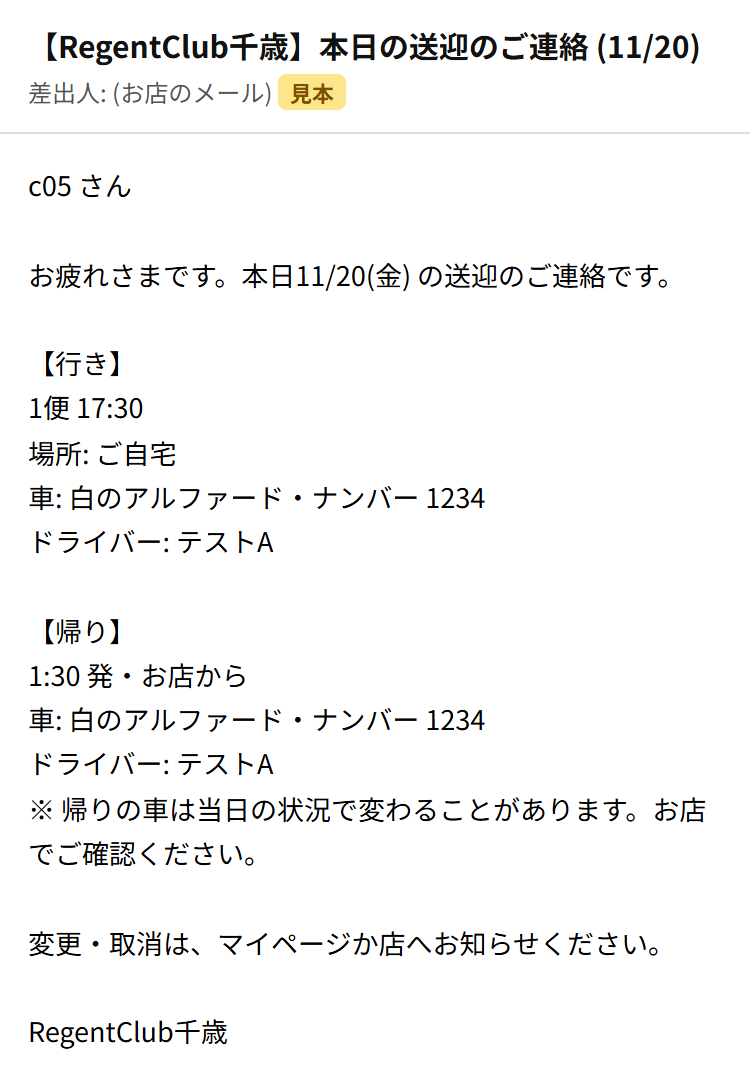
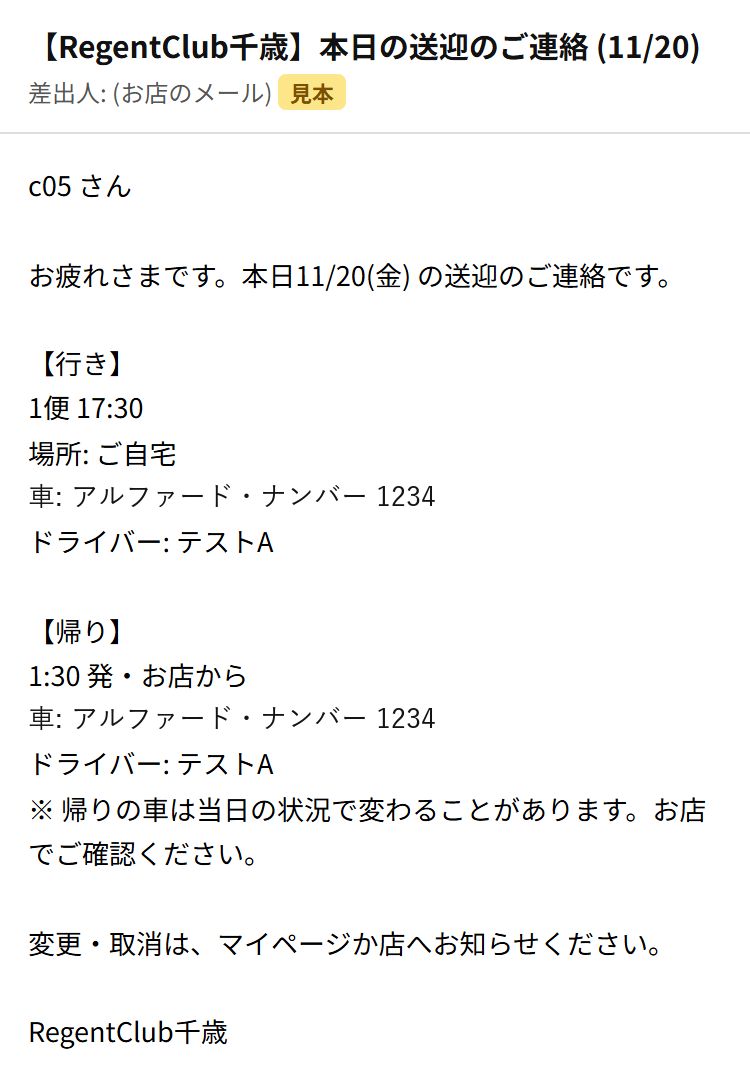
docs: 黒服向け明細を実際の流れ(○で週払い・PDFは準備中)に合わせ図を追加・古い美容室案内と車の色を削除

diff --git a/guide/staff.html b/guide/staff.html
@@ -94,13 +94,13 @@ footer{text-align:center;font-size:12px;color:#777;padding:0 16px 36px}
 <li>本人の マイページが 開きます。ここで <b>シフト・送迎・美容室</b>を 入れます。</li></ol>
 <p class="note">面接アプリから 入った人には、入店メールで マイページの URL が 届きます。</p></div></details><details class="card"><summary><span class="no">5</span>シフト・送迎・美容室・同伴</summary><div class="in"><table><tr><th>だれ</th><th>何を</th><th>どこで</th></tr>
 <tr><td>女の子</td><td>出勤の 日と 時間、送迎 (行き・帰り)、美容室の 予約</td><td>マイページ</td></tr>
-<tr><td>美容師</td><td>出る日 (シフト入力)、来店の 記録 (対応した ／ 来なかった ／ キャンセル)</td><td>美容室の ページ</td></tr>
-<tr><td>ドライバー</td><td>出られる日 (朝=行き ／ 帰)</td><td>送迎 シフト入力</td></tr></table>
-<p class="note">同伴・来店予定の日は、美容室の 予約で <b>優先</b>に なります。入った データは 出勤表の 日別タブに 出ます。</p></div></details><details class="card"><summary><span class="no">6</span>美容室の 給料引きと 明細</summary><div class="in"><ol class="st">
+<tr><td>美容師</td><td>出る日 (週間シフト)、来た子に「ヘアメイク」・来なかった子に「キャンセル」</td><td>美容室の ページ</td></tr>
+<tr><td>ドライバー</td><td>出られる日 (朝=行き ／ 帰)、乗せた子に「乗せた」・乗らなかった子に「キャンセル」</td><td>送迎の ページ</td></tr></table>
+<p class="note">同伴の 日は、美容室で <b>優先</b>に なります。入った データは 出勤表の 日別タブに 出ます。</p></div></details><details class="card"><summary><span class="no">6</span>美容室の 給料引きと 明細</summary><div class="in"><ol class="st">
 <li>シートの「<b>美容室 給料引き(日別)</b>」タブを 見ます。</li>
-<li>日付・店・キャスト・金額 が 出ます。給料から 引くのは <b>有料で 対応した</b> 分だけ です。</li>
+<li>日付・店・キャスト・金額 が 出ます。給料から 引くのは <b>有料</b>で「ヘアメイク」に なった 分だけ です。</li>
 <li>引いたら「<b>引いた</b>」に チェックを 入れます。</li></ol>
-<p class="note">美容師さんの 明細 (PDF) は、毎朝 6 時台 (前の日分)・月曜 6 時台 (先週分) に、ドライブの「美容室 明細」に 自動で できます。メールは 送られません。中村本部長へ 自動で 届く 設定は <span class="chip wip">準備中</span> です。</p></div></details><h2 id="biz">3　営業中に 開く 出勤表</h2><p>営業中は、<b>出勤表スプレッドシートの 日別タブ</b> (その日の タブ) を 開きます。<br>入口は 黒服ポータルの「<b>シフト表</b>」ボタンです。</p><div class="dia"><svg viewBox="0 0 360 420" role="img" aria-label="営業中に開く出勤表とExcelのつながり"><defs><marker id="ar" viewBox="0 0 10 10" refX="8" refY="5" markerWidth="6" markerHeight="6" orient="auto"><path d="M0,0 L10,5 L0,10 z" fill="#1F2A44"/></marker></defs><rect x="10" y="8" width="168" height="62" rx="9" fill="#1F2A44" stroke="#1F2A44" stroke-width="2"/><text x="94.0" y="35.0" text-anchor="middle" font-size="13.5" fill="#fff" font-family="Noto Sans JP,sans-serif" font-weight="700">Prince スプレッドシート</text><text x="94.0" y="53.0" text-anchor="middle" font-size="11" font-weight="500" fill="#fff">シフト入力・在籍・体入・送迎</text><line x1="94" y1="70" x2="94" y2="112" stroke="#1F2A44" stroke-width="2.4" marker-end="url(#ar)"/><text x="102" y="96" font-size="11.5" fill="#1F2A44" text-anchor="start" font-family="Noto Sans JP,sans-serif" font-weight="700">10 分ごと 自動</text><rect x="10" y="114" width="168" height="62" rx="9" fill="#fff" stroke="#1F2A44" stroke-width="2.2"/><text x="94.0" y="141.0" text-anchor="middle" font-size="13.5" fill="#1F2A44" font-family="Noto Sans JP,sans-serif" font-weight="700">出勤表 スプレッドシート</text><text x="94.0" y="159.0" text-anchor="middle" font-size="11" font-weight="500" fill="#1F2A44">日別タブ (4 店)</text><line x1="94" y1="176" x2="94" y2="218" stroke="#1F2A44" stroke-width="2.4" marker-end="url(#ar)"/><rect x="10" y="220" width="168" height="62" rx="9" fill="#fff" stroke="#1F2A44" stroke-width="2.2"/><text x="94.0" y="247.0" text-anchor="middle" font-size="13.5" fill="#1F2A44" font-family="Noto Sans JP,sans-serif" font-weight="700">営業中に 開く 日別タブ</text><text x="94.0" y="265.0" text-anchor="middle" font-size="11" font-weight="500" fill="#1F2A44">① → ④ リンク・Q 列</text><rect x="10" y="330" width="168" height="62" rx="9" fill="#fff" stroke="#1F2A44" stroke-width="2.2"/><text x="94.0" y="357.0" text-anchor="middle" font-size="13.5" fill="#1F2A44" font-family="Noto Sans JP,sans-serif" font-weight="700">＋ 追加出勤 (手入力)</text><text x="94.0" y="375.0" text-anchor="middle" font-size="11" font-weight="500" fill="#1F2A44">表の下に 入れる</text><line x1="94" y1="330" x2="94" y2="284" stroke="#1F2A44" stroke-width="2.4" marker-end="url(#ar)"/><rect x="192" y="114" width="158" height="62" rx="9" fill="#fff" stroke="#1F2A44" stroke-width="2.2" stroke-dasharray="6 4"/><text x="271.0" y="141.0" text-anchor="middle" font-size="13.5" fill="#1F2A44" font-family="Noto Sans JP,sans-serif" font-weight="700">Excel の 出勤</text><text x="271.0" y="159.0" text-anchor="middle" font-size="11" font-weight="500" fill="#1F2A44">自動で 拾う (確認中)</text><line x1="192" y1="145" x2="180" y2="145" stroke="#1F2A44" stroke-width="2.4" stroke-dasharray="6 4" marker-end="url(#ar)"/><rect x="192" y="220" width="158" height="62" rx="9" fill="#fff" stroke="#1F2A44" stroke-width="2.2" stroke-dasharray="6 4"/><text x="271.0" y="247.0" text-anchor="middle" font-size="13.5" fill="#1F2A44" font-family="Noto Sans JP,sans-serif" font-weight="700">指名・売上の 入力</text><text x="271.0" y="265.0" text-anchor="middle" font-size="11" font-weight="500" fill="#1F2A44">営業中に 入力 (作業中)</text><line x1="271" y1="282" x2="271" y2="330" stroke="#1F2A44" stroke-width="2.4" stroke-dasharray="6 4" marker-end="url(#ar)"/><rect x="192" y="332" width="158" height="60" rx="9" fill="#fff" stroke="#1F2A44" stroke-width="2.2" stroke-dasharray="6 4"/><text x="271.0" y="358.0" text-anchor="middle" font-size="13.5" fill="#1F2A44" font-family="Noto Sans JP,sans-serif" font-weight="700">Excel 売上指名表</text><text x="271.0" y="376.0" text-anchor="middle" font-size="11" font-weight="500" fill="#1F2A44">自動で 反映 (作業中)</text></svg></div><div class="card"><h4>日別タブの 見かた</h4><ul style="margin:6px 0;padding-left:1.3em">
+<p class="note">毎晩の 確認・撮影を 無料に する 方法・ドライバーの 週払いは <a href="meisai.html">黒服向け 明細の説明書</a> に まとめました。</p></div></details><h2 id="biz">3　営業中に 開く 出勤表</h2><p>営業中は、<b>出勤表スプレッドシートの 日別タブ</b> (その日の タブ) を 開きます。<br>入口は 黒服ポータルの「<b>シフト表</b>」ボタンです。</p><div class="dia"><svg viewBox="0 0 360 420" role="img" aria-label="営業中に開く出勤表とExcelのつながり"><defs><marker id="ar" viewBox="0 0 10 10" refX="8" refY="5" markerWidth="6" markerHeight="6" orient="auto"><path d="M0,0 L10,5 L0,10 z" fill="#1F2A44"/></marker></defs><rect x="10" y="8" width="168" height="62" rx="9" fill="#1F2A44" stroke="#1F2A44" stroke-width="2"/><text x="94.0" y="35.0" text-anchor="middle" font-size="13.5" fill="#fff" font-family="Noto Sans JP,sans-serif" font-weight="700">Prince スプレッドシート</text><text x="94.0" y="53.0" text-anchor="middle" font-size="11" font-weight="500" fill="#fff">シフト入力・在籍・体入・送迎</text><line x1="94" y1="70" x2="94" y2="112" stroke="#1F2A44" stroke-width="2.4" marker-end="url(#ar)"/><text x="102" y="96" font-size="11.5" fill="#1F2A44" text-anchor="start" font-family="Noto Sans JP,sans-serif" font-weight="700">10 分ごと 自動</text><rect x="10" y="114" width="168" height="62" rx="9" fill="#fff" stroke="#1F2A44" stroke-width="2.2"/><text x="94.0" y="141.0" text-anchor="middle" font-size="13.5" fill="#1F2A44" font-family="Noto Sans JP,sans-serif" font-weight="700">出勤表 スプレッドシート</text><text x="94.0" y="159.0" text-anchor="middle" font-size="11" font-weight="500" fill="#1F2A44">日別タブ (4 店)</text><line x1="94" y1="176" x2="94" y2="218" stroke="#1F2A44" stroke-width="2.4" marker-end="url(#ar)"/><rect x="10" y="220" width="168" height="62" rx="9" fill="#fff" stroke="#1F2A44" stroke-width="2.2"/><text x="94.0" y="247.0" text-anchor="middle" font-size="13.5" fill="#1F2A44" font-family="Noto Sans JP,sans-serif" font-weight="700">営業中に 開く 日別タブ</text><text x="94.0" y="265.0" text-anchor="middle" font-size="11" font-weight="500" fill="#1F2A44">① → ④ リンク・Q 列</text><rect x="10" y="330" width="168" height="62" rx="9" fill="#fff" stroke="#1F2A44" stroke-width="2.2"/><text x="94.0" y="357.0" text-anchor="middle" font-size="13.5" fill="#1F2A44" font-family="Noto Sans JP,sans-serif" font-weight="700">＋ 追加出勤 (手入力)</text><text x="94.0" y="375.0" text-anchor="middle" font-size="11" font-weight="500" fill="#1F2A44">表の下に 入れる</text><line x1="94" y1="330" x2="94" y2="284" stroke="#1F2A44" stroke-width="2.4" marker-end="url(#ar)"/><rect x="192" y="114" width="158" height="62" rx="9" fill="#fff" stroke="#1F2A44" stroke-width="2.2" stroke-dasharray="6 4"/><text x="271.0" y="141.0" text-anchor="middle" font-size="13.5" fill="#1F2A44" font-family="Noto Sans JP,sans-serif" font-weight="700">Excel の 出勤</text><text x="271.0" y="159.0" text-anchor="middle" font-size="11" font-weight="500" fill="#1F2A44">自動で 拾う (確認中)</text><line x1="192" y1="145" x2="180" y2="145" stroke="#1F2A44" stroke-width="2.4" stroke-dasharray="6 4" marker-end="url(#ar)"/><rect x="192" y="220" width="158" height="62" rx="9" fill="#fff" stroke="#1F2A44" stroke-width="2.2" stroke-dasharray="6 4"/><text x="271.0" y="247.0" text-anchor="middle" font-size="13.5" fill="#1F2A44" font-family="Noto Sans JP,sans-serif" font-weight="700">指名・売上の 入力</text><text x="271.0" y="265.0" text-anchor="middle" font-size="11" font-weight="500" fill="#1F2A44">営業中に 入力 (作業中)</text><line x1="271" y1="282" x2="271" y2="330" stroke="#1F2A44" stroke-width="2.4" stroke-dasharray="6 4" marker-end="url(#ar)"/><rect x="192" y="332" width="158" height="60" rx="9" fill="#fff" stroke="#1F2A44" stroke-width="2.2" stroke-dasharray="6 4"/><text x="271.0" y="358.0" text-anchor="middle" font-size="13.5" fill="#1F2A44" font-family="Noto Sans JP,sans-serif" font-weight="700">Excel 売上指名表</text><text x="271.0" y="376.0" text-anchor="middle" font-size="11" font-weight="500" fill="#1F2A44">自動で 反映 (作業中)</text></svg></div><div class="card"><h4>日別タブの 見かた</h4><ul style="margin:6px 0;padding-left:1.3em">
 <li>上の「<b>① → ④</b>」の リンク: シフト入力 → 出勤簿 → 送迎 → 美容室 の 流れで 開けます。</li>
 <li><b>Q 列「送迎 割り振り」</b>: 見るだけの 欄です。未定の子は 赤で 出ます。</li>
 <li><b>ヘアメイクの 時間</b> (F 列) を 押すと、その日の 美容室の 予約が 開きます。</li></ul>

diff --git a/guide/index.html b/guide/index.html
@@ -38,93 +38,23 @@ th{background:var(--navyL);color:var(--navy)}
 .sc img{max-width:none;width:760px}
 footer{text-align:center;font-size:12px;color:#777;padding:0 16px 32px}
 </style></head><body>
-<header><small>PRINCE CHITOSE</small><h1>黒服向け ご案内<br>美容室アプリと、送迎の今の状況</h1></header>
-<nav><a href="#a">A 美容室のアプリ</a><a href="#b">B 送迎の今の状況</a></nav>
+<header><small>PRINCE CHITOSE</small><h1>黒服向け ご案内<br>説明書と、送迎の今の状況</h1></header>
+<nav><a href="#g">説明書</a><a href="#b">送迎の今の状況</a></nav>
 <main>
 
-<h2 style="margin-top:20px">説明書 (図でわかる)</h2>
+<h2 id="g" style="margin-top:20px">説明書 (図でわかる)</h2>
 <div class="card">
 <p>スマホで見やすい、図と画面つきの説明書です。自分の役割のページを開いてください。</p>
 <ul style="list-style:none;padding:0;margin:8px 0">
-<li style="margin:8px 0"><a href="hair.html" style="display:block;text-decoration:none;font-weight:700;color:#1F2A44;background:#E6E9F0;border-radius:10px;padding:12px 14px">美容師さん向け (漫画でわかるガイド)</a></li>
-<li style="margin:8px 0"><a href="driver.html" style="display:block;text-decoration:none;font-weight:700;color:#1F2A44;background:#E6E9F0;border-radius:10px;padding:12px 14px">送迎ドライバーさん向け (流れ図)</a></li>
+<li style="margin:8px 0"><a href="hair.html" style="display:block;text-decoration:none;font-weight:700;color:#1F2A44;background:#E6E9F0;border-radius:10px;padding:12px 14px">美容師さん向け (ヘアメイク・キャンセルの押し方)</a></li>
+<li style="margin:8px 0"><a href="driver.html" style="display:block;text-decoration:none;font-weight:700;color:#1F2A44;background:#E6E9F0;border-radius:10px;padding:12px 14px">送迎ドライバーさん向け (乗せた・キャンセルの押し方)</a></li>
 <li style="margin:8px 0"><a href="recruit.html" style="display:block;text-decoration:none;font-weight:700;color:#1F2A44;background:#E6E9F0;border-radius:10px;padding:12px 14px">LINE 求人の説明書 (横型スライド・応募から採用まで)</a></li>
-<li style="margin:8px 0"><a href="staff.html" style="display:block;text-decoration:none;font-weight:700;color:#1F2A44;background:#E6E9F0;border-radius:10px;padding:12px 14px">黒服向け (つながりの図と業務の手順)</a></li><li style="margin:8px 0"><a href="meisai.html" style="display:block;text-decoration:none;font-weight:700;color:#1F2A44;background:#E6E9F0;border-radius:10px;padding:12px 14px">黒服向け (美容室の明細・ドライバーの週払い)</a></li>
+<li style="margin:8px 0"><a href="staff.html" style="display:block;text-decoration:none;font-weight:700;color:#1F2A44;background:#E6E9F0;border-radius:10px;padding:12px 14px">黒服向け (つながりの図と業務の手順)</a></li><li style="margin:8px 0"><a href="meisai.html" style="display:block;text-decoration:none;font-weight:700;color:#1F2A44;background:#E6E9F0;border-radius:10px;padding:12px 14px">黒服向け 明細のこと (毎晩の確認・撮影の無料・週払い)</a></li>
 </ul></div>
 
 <p>各店舗の担当 (黒服) の方向けのページです。画面の写真は、テスト用の子 (「テストてじゅん」) で試したものです。本物のキャストの名前・連絡先は載せていません。</p>
 
-<h2 id="a">A 美容室のアプリ</h2>
-
-<h3>1. どこから開く?</h3>
-<div class="card">
-<ul>
-<li><b>美容師さん</b> … LINE で送った URL から開く。</li>
-<li><b>黒服</b> … 黒服ポータルの「美容室」ボタンから開く。</li>
-<li><b>キャスト</b> … マイページから予約する。</li>
-</ul>
-<p class="note">この3つのどこから入れても、同じ予約表につながります。</p>
-</div>
-
-<h3>2. 画面の見かた</h3>
-
-<h4 style="margin:18px 0 0;color:#1F2A44">1 ページ目: カレンダー</h4>
-<figure class="ph"><img src="img/a1_cal.png" alt="美容室のカレンダー画面" loading="lazy">
-<figcaption>1 か月の予定が出ます。日ごとに、時間ごとの色の帯 (19時・20時・21時・22時) で人数がわかります。美容師さんが入れる人数をこえると、帯が<b>赤い枠</b>になります (あふれ)。日をタップすると、その日の詳しい画面に進みます。</figcaption></figure>
-
-<h4 style="margin:18px 0 0;color:#1F2A44">2 ページ目: その日の詳細</h4>
-<figure class="ph"><img src="img/a2_day.png" alt="その日の予約と空き枠の画面" loading="lazy">
-<figcaption>予約が入った枠 (ここでは「撮影」で「対応済」) と、<b>空いている枠</b>が時間順に並びます。空き枠には「入れる」ボタンがあります。</figcaption></figure>
-
-<h4 style="margin:18px 0 0;color:#1F2A44">「空きに入れる」画面</h4>
-<figure class="ph"><img src="img/a4_add_suggest.png" alt="空きに入れる画面 名前の候補" loading="lazy">
-<figcaption>お店を選び、名前は<b>最初の文字</b>を打つと候補が出ます。候補から選んでください。</figcaption></figure>
-<figure class="ph"><img src="img/a5_add_ready.png" alt="空きに入れる画面 予定の選択" loading="lazy">
-<figcaption>「予定」は <span class="pill">なし</span> <span class="pill">同伴</span> <span class="pill">優先</span> <span class="pill">撮影</span> から選びます。名前を選ぶと、いちばん下のボタンで確定できます。</figcaption></figure>
-
-<h4 style="margin:18px 0 0;color:#1F2A44">「特別枠」(撮影など)</h4>
-<figure class="ph"><img src="img/a9_special.png" alt="特別枠の画面" loading="lazy">
-<figcaption>通常の枠とは別に、<b>15:00 から</b> (30 分きざみ) の時刻を自分で選んで入れられます。「撮影」を選ぶと、<b>美容室費 (無料 / 有料)</b> を選ぶ欄が出ます。</figcaption></figure>
-
-<h4 style="margin:18px 0 0;color:#1F2A44">「対応を記録」画面</h4>
-<figure class="ph"><img src="img/a7_status.png" alt="対応を記録する画面" loading="lazy">
-<figcaption>予約の行をタップすると出ます。担当の美容師さんを選んで、次の3つから選びます。
-<br>・<b>対応した</b>
-<br>・<b>来なかった</b>
-<br>・<b>キャンセル</b> … 押すと、その枠は<b>空きに戻り</b>、ほかの子を入れられます。</figcaption></figure>
-
-<h3>3. お金の流れ</h3>
-<div class="card">
-<h4>給料から引くのは「有料で対応した」分だけ</h4>
-<table>
-<tr><th>状態</th><th>給料から</th></tr>
-<tr><td>有料で対応した</td><td><b>引く</b></td></tr>
-<tr><td>撮影で美容室費が無料</td><td>引かない</td></tr>
-<tr><td>来なかった</td><td>引かない</td></tr>
-<tr><td>キャンセル</td><td>引かない</td></tr>
-</table>
-<p class="note">この「来なかった・キャンセルは引かない」は、いまの仮の決めです。変わったらこのページを直します。</p>
-</div>
-
-<div class="card">
-<h4>黒服がやること</h4>
-<p>シートの「<b>美容室 給料引き(日別)</b>」タブを見て、その分を給料から引き、<b>「引いた」にチェック</b>を入れてください。</p>
-<figure><div class="sc"><img src="img/a_pay_tab.png" alt="美容室 給料引き(日別) タブ" loading="lazy"></div>
-<figcaption>有料で対応した分だけが、日付・店・キャスト・金額で並びます。「引いた」の四角にチェックを入れます。(この画面はテストの2行です)</figcaption></figure>
-</div>
-
-<h3>4. 美容師さんの明細 (請求書)</h3>
-<div class="card">
-<ul>
-<li><b>毎朝 6 時台</b> … 前の日の分の PDF が、Drive の「美容室 明細」に自動でできます。</li>
-<li><b>月曜の 6 時台</b> … 前の週 (月曜から日曜) の分の PDF が、同じ場所にできます。</li>
-</ul>
-<p class="note">メールは送りません。Drive のフォルダに PDF が置かれるだけです。</p>
-<figure><img src="img/a_pdf.png" alt="美容師 週別明細の見本" loading="lazy">
-<figcaption>週別の明細の1ページ目 <span class="sample">見本</span><br>PDF と同じ形で作った見本です (テストの予約の数字)。美容師さんごとに、有料で対応した件数・金額・無料・来なかった・キャンセルの数が並びます。</figcaption></figure>
-</div>
-
-<h2 id="b">B 送迎の今の状況</h2>
+<h2 id="b">送迎の今の状況</h2>
 
 <h3>1. 今の状態</h3>
 <div class="ok"><b>仕組みはできていて、テストは合格しています。</b></div>
@@ -138,7 +68,7 @@ footer{text-align:center;font-size:12px;color:#777;padding:0 16px 32px}
 <li><b>毎日 16:30</b> に、その日の出勤と送迎の希望を読む。</li>
 <li>方面・便・車の席・ドライバーさんごとの条件 (例: 「プリンスビルから乗る子だけ」の工藤さん) を見て、<b>だれをどの車に乗せるか</b>を割り振る。</li>
 <li>ドライバーさんへ、<b>LINE WORKS</b> で連絡する。</li>
-<li>キャストへ、<b>メール</b>で、乗る便・車・ナンバー・色・乗る場所を連絡する。</li>
+<li>キャストへ、<b>メール</b>で、乗る便・車・ナンバー・乗る場所を連絡する。</li>
 <li>取り消しが出たら、シートに<b>赤く</b>出す。</li>
 <li>決まらなかった子がいたら、<b>知らせる</b>。</li>
 </ul>
@@ -176,7 +106,6 @@ footer{text-align:center;font-size:12px;color:#777;padding:0 16px 32px}
 <ul>
 <li>高橋さんの「近場」は、どこまでか。</li>
 <li>小野さんの、金曜と祝日の前の帰りを、入れてよいか。</li>
-<li>ドライバーさんごとの車の色。</li>
 </ul>
 <p class="note">答えが来たら、このページを直します。それまでは、安全な側 (入れない) で動きます。</p>
 </div>

diff --git a/guide/meisai.html b/guide/meisai.html
@@ -65,36 +65,43 @@ th{background:#E6E9F0;color:#1F2A44}
 .back a{color:#1F2A44}
 footer{text-align:center;font-size:12px;color:#777;padding:0 16px 36px}
 
-.big{font-size:17px;font-weight:900;color:#1F2A44;margin:6px 0}.calc{background:#F4F5F7;border-radius:8px;padding:10px 12px;font-size:17px;line-height:1.9}.calc b{font-size:20px}.shot img.a{height:auto}.todo{display:flex;gap:10px;align-items:center;margin:0 0 6px}.todo .no{width:36px;height:36px;font-size:18px}.todo h4{margin:0;font-size:18px}.when{display:inline-block;background:#1F2A44;color:#fff;border-radius:6px;padding:0 8px;font-size:13px;margin-bottom:4px}</style></head><body>
-<header class="top"><small>PRINCE CHITOSE / STAFF</small><h1>黒服向け 明細のこと</h1><p>明細は 自動で できます。黒服が やることは 3 つだけ。</p></header>
+.calc{background:#F4F5F7;border-radius:8px;padding:10px 12px;font-size:17px;line-height:1.9;font-weight:700;color:#1F2A44}.shot img.a{height:auto}.tt{font-size:18.5px!important;margin:4px 0 8px!important}.when{display:inline-block;background:#1F2A44;color:#fff;border-radius:6px;padding:0 8px;font-size:13px}.ok,.ng{border-radius:8px;padding:8px 12px;margin:6px 0;font-size:16px;font-weight:700}.ok{background:#DFF3E6;color:#14602F}.ng{background:#FDE3E1;color:#9B1C1C}.lk{display:flex;gap:10px;flex-wrap:wrap}.lk a{flex:1;text-align:center;font-weight:700;text-decoration:none;color:#fff;background:#1F2A44;border-radius:8px;padding:10px 6px}</style></head><body>
+<header class="top"><small>PRINCE CHITOSE / STAFF</small><h1>黒服向け 明細のこと</h1><p>明細は アプリの 記録から 作ります。黒服が やるのは 下の 4 つです。</p></header>
 <main>
 
 <div class="card"><span class="when">毎晩 お店が 終わる前</span>
-<div class="todo"><span class="no">1</span><h4>「まだ」が 0 か 見る</h4></div>
-<p>美容室の画面と 送迎の画面の 上に 出る 数字を 見ます。</p>
-<figure class="shotwrap wide"><div class="shot"><img class="a" src="img/g2_h7.png" alt="美容室の画面の上の数字" loading="lazy"></div><figcaption class="note">美容室の画面</figcaption></figure>
-<p class="big">「まだ」が 0 → OK</p>
-<p class="big">「まだ」が 残っている → その美容師さん・ドライバーさんに 押してもらう</p>
+<h4 class="tt">「まだ」が 0 か 見る</h4>
+<p>美容室と 送迎の 画面の 上の 数字を 見ます。</p>
+<figure class="shotwrap wide"><div class="shot"><img class="a" src="img/mz_h.png" alt="美容室の画面の上の数字" loading="lazy"></div><figcaption class="note">美容室 (まだ 1 人 = 赤い字が 出る)</figcaption></figure>
+<figure class="shotwrap wide"><div class="shot"><img class="a" src="img/mz_d.png" alt="送迎の画面の上の数字" loading="lazy"></div><figcaption class="note">送迎 (行き・帰り)</figcaption></figure>
+<div class="ok"><b>0</b> なら OK</div>
+<div class="ng"><b>1 以上</b> なら、その日の うちに 美容師さん・ドライバーさんに 押してもらう</div>
 <p class="note">押されていない 分は 明細に 入りません。</p>
-<p><a href="https://apply.prince-sapporo.jp/salon/">美容室の画面</a>　<a href="https://apply.prince-sapporo.jp/sougei-board/">送迎の画面</a></p></div>
+<p class="lk"><a href="https://apply.prince-sapporo.jp/salon/?as=staff">美容室の画面</a><a href="https://apply.prince-sapporo.jp/sougei-board/">送迎の画面</a></p></div>
 
 <div class="card"><span class="when">撮影を 無料に する 時だけ</span>
-<div class="todo"><span class="no">2</span><h4>ヘアメイクの 前に 無料に する</h4></div>
-<p>女の子が 入れた 撮影は 最初 <b>有料</b> です。</p>
-<ol class="st"><li>黒服ポータル → ヘアメイク管理</li><li>その子の 札の「<b>詳細</b>」</li><li>美容室費 を 無料に</li></ol>
-<p class="note">美容師さんが「ヘアメイク」を 押した あとは 変えられません。</p></div>
+<h4 class="tt">美容師さんが 押す 前に 無料に する</h4>
+<p>女の子が 入れた 撮影は 最初 <b>有料</b> です。黒服ポータルの「<b>ヘアメイク管理</b>」から 開きます。</p>
+<figure class="shotwrap wide"><div class="shot"><img class="a" src="img/mz_f0.png" alt="この日の予約画面を開くボタン" loading="lazy"></div></figure>
+<figure class="shotwrap wide"><div class="shot"><img class="a" src="img/mz_f1.png" alt="予約の行の詳細ボタン" loading="lazy"></div></figure>
+<figure class="shotwrap wide"><div class="shot"><img class="a" src="img/mz_f2.png" alt="美容室費の無料ボタン" loading="lazy"></div></figure>
+<p class="note">「ヘアメイク」が 押された あとは 変えられません。同じ 画面の「枠を空ける」は、予約を 本当に 取り消す 時 だけ 使います。</p></div>
 
-<div class="card"><span class="when">月曜の 朝</span>
-<div class="todo"><span class="no">3</span><h4>明細を 見る</h4></div>
-<p class="big">美容室</p>
-<p>Google ドライブ の「<b>美容室 明細</b>」フォルダ に 自動で 入ります。</p>
-<p class="note">先週の 分 = 「週別」 / 毎日の 分 = 「日別」</p>
-<p class="big">ドライバーの 週払い</p>
-<div class="calc">6,500円 × 出た日数<br>− 共済費 10%<br>= お支払い</div>
-<p>例: 5 日 → 32,500 − 3,250 = <b>29,250 円</b></p></div>
+<div class="card"><span class="when">ドライバーさんが 出た 日</span>
+<h4 class="tt">「ドライバー出勤」に ○ を 付ける</h4>
+<p><b>週払いは この ○ の 数で 計算します。</b>ドライバーさんが 画面で 押す「乗せた」だけでは 数えません。</p>
+<ol class="st"><li>黒服ポータル →「送迎」の 下の「<b>送迎管理 (行き・帰りの一覧)</b>」</li><li>いちばん 下の「<b>ドライバー出勤</b>」</li><li>出た 日に ○ を 押す (もう 一度 押すと 消える)</li></ol>
+<p class="note">薄い ○ は「予定に 入っている 日」です。押すと 決まった ○ に なります。月〜土で 1 週間です。</p>
+<div class="calc">週払い ＝ 6,500円 × ○の数<br>− 共済費 10%</div>
+<p>例: ○ 5 つ → 32,500 − 3,250 = <b>29,250 円</b></p></div>
 
-<div class="banner" style="background:#E8E8EE"><b>まだ 決まっていないこと</b> (決まったら ここを 直します)
-<ul style="margin:4px 0 0;padding-left:1.2em;font-size:14px"><li>週払いの「出た日」を 何で 数えるか</li><li>中村本部長への 月曜の メール (送り先が 未定・今は 止めてある)</li></ul></div>
+<div class="card"><span class="when">お給料の 前</span>
+<h4 class="tt">美容室代を 女の子の お給料から 引く</h4>
+<ol class="st"><li>Prince App の シート「<b>美容室 給料引き(日別)</b>」タブを 開く</li><li>日付・店・女の子・金額 の 行を 見て、お給料から 引く</li><li>引いたら「<b>引いた</b>」に チェック</li></ol>
+<p class="note">ここに 入るのは、<b>有料</b>で「ヘアメイク」が 押された 分 だけ です (無料・キャンセルは 入りません)。</p></div>
+
+<div class="banner" style="background:#E8E8EE"><b>まだ 動いていないこと</b> (動いたら ここを 直します)
+<ul style="margin:4px 0 0;padding-left:1.2em;font-size:14px"><li>美容室の 明細 PDF を 毎朝 Google ドライブ「美容室 明細」に 自動で 置く (仕組みは できていて、始める 前)</li><li>週払い 明細 PDF と 美容師の 実績を 月曜に 中村本部長へ メール (送り先が 未定・止めてある)</li></ul></div>
 
 <p class="back"><a href="./">← ご案内の トップへ</a></p>
 </main>

diff --git a/salon/index.html b/salon/index.html
@@ -345,7 +345,7 @@ function renderList(){
     g.items.push(e);
   });
   r.special.forEach(function(e){spx.push(e);});
-  if(groups.length||spx.length)h+='<div class="lsec">時間指定 (同伴・撮影・来店予定) 時刻順</div>';
+  if(groups.length||spx.length)h+='<div class="lsec">時間指定 (同伴・撮影) 時刻順</div>';
   groups.forEach(function(g){
     var duty=(r.onDuty||[]).filter(function(x){return x.place===g.name;}).map(function(x){return x.name+' '+x.start+'-'+x.end;}).join('、');
     h+='<div class="lh"><b>'+esc(g.name)+'</b><small>美容師 '+g.staff+' 人'+(duty?' · 出勤 '+esc(duty):'')+' · 時間指定 '+g.items.length+'</small></div>';
@@ -360,7 +360,7 @@ function renderList(){
   if(any.length){
     var hasTag=any.some(function(x){return x.tag;}),hasNo=any.some(function(x){return !x.tag;}),lastG='';
     h+='<div class="lsec">指定なし (着いた順) '+any.length+'人</div><div class="lsub">19:00〜22:00 の間に、着いた順でできるだけ終わらせる</div>';
-    any.forEach(function(e){var g=e.tag?'a':'b';if(g!==lastG&&hasTag&&hasNo)h+='<div class="lsub">'+(g==='a'?'同伴・来店予定あり':'その他')+'</div>';lastG=g;ll.push(e);h+=lineHtml(e,ll.length-1);});
+    any.forEach(function(e){var g=e.tag?'a':'b';if(g!==lastG&&hasTag&&hasNo)h+='<div class="lsub">'+(g==='a'?'同伴':'その他')+'</div>';lastG=g;ll.push(e);h+=lineHtml(e,ll.length-1);});
   }
   if(!groups.length&&!spx.length&&!any.length)h='<div class="msg">表示する枠がありません</div>';
   $('lBody').innerHTML=h;
@@ -504,7 +504,7 @@ function renderDay(r){
   list.forEach(function(e,i){
     if(e.any){
       if(!anyHd){anyHd=true;h+='<div class="lsec">指定なし (着いた順)</div><div class="lsub">19:00〜22:00 の間に、着いた順でできるだけ終わらせる</div>';}
-      var g0=e.tag?'a':'b';if(g0!==lastG&&hasTag&&hasNo)h+='<div class="lsub">'+(g0==='a'?'同伴・来店予定あり':'その他')+'</div>';lastG=g0;
+      var g0=e.tag?'a':'b';if(g0!==lastG&&hasTag&&hasNo)h+='<div class="lsub">'+(g0==='a'?'同伴':'その他')+'</div>';lastG=g0;
     }
     if(e.kind==='free'){
       h+='<div class="rw"><span class="tm">'+esc(e.time)+'</span><button class="em" data-i="'+i+'"'+(r.canBook?'':' disabled')+'><span class="l"><b>空き</b>'+((e.note||multi)?'<small>'+(e.note?esc(e.note)+' さんはキャンセル':'')+(e.note&&multi?' · ':'')+(multi?esc(e.place):'')+'</small>':'')+'</span>'+
